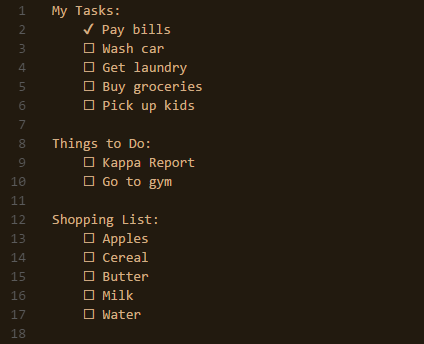
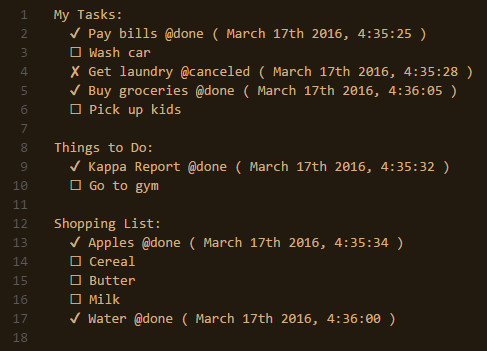
v0.5 add task above, timestamp, done/cancel message

diff --git a/src/extension.ts b/src/extension.ts
@@ -1,12 +1,12 @@
 'use strict';
 import * as vscode from 'vscode';
-import {EOL} from 'os';
+import * as moment from 'moment';
 
 export function activate(context: vscode.ExtensionContext) {
   let task = new Task();
   
   let addTask = vscode.commands.registerCommand('extension.addTask', () => {
-     task.add(true); 
+     task.add(true);
   });
   
   let addTaskAbove = vscode.commands.registerCommand('extension.addTaskAbove', () => {
@@ -34,39 +34,32 @@ export function activate(context: vscode.ExtensionContext) {
 }
 
 class Task {
-  
   private config = {
     baseMarker: '☐',
     cancelMarker: '✘',
     completeMarker: '✔',
     doneMessage: ' @done',
     cancelMessage: ' @canceled'
-  };  
+  };
   
   public add(stage: boolean): any {
     let editor: any = vscode.window.activeTextEditor;
     if (!editor) {
       return;
     }
-    
     let config: any = this.config;
-    
-    //get current position
+    // get current position
     let currentLine: number = editor.selection.active.line;
-    
-    //get info
+    // get info
     let info: any = this.getLineinfo(editor, currentLine, config.baseMarker);
-    
-    //insert line below or above
-    stage ? insertLineBelow() : insertLineAbove()
-    
-    //helper-functions
+    // insert line below or above
+    stage ? insertLineBelow() : insertLineAbove();
+    // helper-functions
     function insertLineBelow(): any {
       editor.edit( editBuilder => {
         editBuilder.insert(info.lineEnd, '\n\t' + info.marker + ' ');
-      })
+      });
     }
-    
     function insertLineAbove(): any {
       editor.edit( editBuilder => {
         editBuilder.insert(info.prevLine, '\n\t' + info.marker + ' ');
@@ -80,28 +73,21 @@ class Task {
     if (!editor) {
       return;
     }
-    
     let config: any = this.config;
     let replaceLine: any = this.replaceLine;
-    let appendMessage: any = this.appendMessage;
-    
-    //get current position
+    // get current position
     let currentLine: number = editor.selection.active.line;
-    
-    //get info
-    let info:any = this.getLineinfo(editor, currentLine, config.completeMarker);
-    
+    // get info
+    let info: any = this.getLineinfo(editor, currentLine, config.completeMarker);
     if (info.containsBase !== -1) {
-      //baseMarker => completeMarker
-      replaceLine(editor, info, config.baseMarker, info.marker, '');
-      appendMessage(editor, info, config.doneMessage);
+      // baseMarker => completeMarker
+      replaceLine(editor, info, config.baseMarker, info.marker, config.doneMessage, 'append');
     } else if (info.containsComplete !== -1) {
-      //completeMarker => baseMarker
-      replaceLine(editor, info, info.marker, config.baseMarker, config.doneMessage)
+      // completeMarker => baseMarker
+      replaceLine(editor, info, info.marker, config.baseMarker, config.doneMessage, '');
     } else if (info.containsCancel !== -1) {
-      //cancelMarker => completeMarker 
-      replaceLine(editor, info, config.cancelMarker, info.marker, config.cancelMessage);
-      appendMessage(editor, info, config.doneMessage);
+      // cancelMarker => completeMarker 
+      replaceLine(editor, info, config.cancelMarker, info.marker, config.cancelMessage, config.doneMessage);
     }
   }
   
@@ -110,28 +96,21 @@ class Task {
     if (!editor) {
       return;
     }
-    
     let config: any = this.config;
     let replaceLine: any = this.replaceLine;
-    let appendMessage: any = this.appendMessage;
-    
-    //get current position
+    // get current position
     let currentLine: number = editor.selection.active.line;
-    
-    //get info
+    // get info
     let info: any = this.getLineinfo(editor, currentLine, config.cancelMarker);
-    
     if (info.containsBase !== -1) {
-      //baseMarker => cancelMarker
-      replaceLine(editor, info, config.baseMarker, info.marker, '');
-      appendMessage(editor, info, config.cancelMessage);
+      // baseMarker => cancelMarker
+      replaceLine(editor, info, config.baseMarker, info.marker, config.cancelMessage, 'append');
     } else if (info.containsComplete !== -1) {
-      //completeMarker => cancelMarker
-      replaceLine(editor, info, config.completeMarker, info.marker, config.doneMessage);
-      appendMessage(editor, info, config.cancelMessage);
+      // completeMarker => cancelMarker
+      replaceLine(editor, info, config.completeMarker, info.marker, config.doneMessage, config.cancelMessage);
     } else if (info.containsCancel !== -1) {
-      //cancelMarker => baseMarker
-      replaceLine(editor, info, info.marker, config.baseMarker, config.cancelMessage);
+      // cancelMarker => baseMarker
+      replaceLine(editor, info, info.marker, config.baseMarker, config.cancelMessage, '');
     }
   }
   
@@ -140,19 +119,15 @@ class Task {
     if (!editor) {
       return;
     }
-    
     let config: any = this.config;
-    
-    //get current position
+    // get current position
     let currentLine: number = editor.selection.active.line;
-    
-    //get info
+    // get info
     let info: any = this.getLineinfo(editor, currentLine, config.baseMarker);
-    
     if (info.containsBase === -1 && info.containsComplete === -1 && info.containsCancel === -1) {
       editor.edit( editBuilder => {
         editBuilder.insert(info.firstNonWhitePos, info.marker + ' ');
-      })
+      });
     }
   }
   
@@ -167,9 +142,10 @@ class Task {
     if (lineNumber === 0) {
       prevLine = new vscode.Position(0, lineText.length);
     } else {
-      prevLine = new vscode.Position(lineNumber -1, lineText.length);
+      let prevLineText: string = editor.document.lineAt(lineNumber - 1).text;
+      prevLine = new vscode.Position(lineNumber - 1, prevLineText.length);
     }
-    let containsBase: number = lineText.indexOf(config.baseMarker) 
+    let containsBase: number = lineText.indexOf(config.baseMarker);
     let containsComplete: number = lineText.indexOf(config.completeMarker);
     let containsCancel: number = lineText.indexOf(config.cancelMarker);
     let result = {
@@ -187,23 +163,28 @@ class Task {
     return result;
   }
   
-  private replaceLine(editor: any, info: any, markerFrom: string, markerTo: string, messageFrom: string): any {
+  private replaceLine(editor: any, info: any, markerFrom: string, markerTo: string, messageFrom: string, messageTo: string): any {
     let newLine: string;
-    if (messageFrom !== '') {
-      newLine = info.lineText.replace(markerFrom, markerTo).replace(messageFrom, '');
+    if (messageTo === 'append') {
+      newLine = info.lineText.replace(markerFrom, markerTo) + messageFrom + ' ( ' + moment().format('MMMM Do YYYY, h:mm:ss') + ' )';
+    } else if (messageTo === '') {
+      newLine = info.lineText.replace(markerFrom, markerTo)
+      newLine = removeString(newLine, newLine.indexOf(messageFrom), newLine.length);
     } else {
-      newLine = info.lineText.replace(markerFrom, markerTo);
+      newLine = info.lineText.replace(markerFrom, markerTo)
+      newLine = removeString(newLine, newLine.indexOf(messageFrom), newLine.length);
+      newLine = newLine + messageTo + ' ( ' + moment().format('MMMM Do YYYY, h:mm:ss') + ' )';
     }
     editor.edit (editBuilder => {
       editBuilder.replace(info.lineRange, newLine);
-    })  
+    });
+    editor.selection = new vscode.Selection(info.lineEnd, info.lineEnd);
+    
+    function removeString(str, start, end) {
+      return str.substr(0, start) + str.substr(start + end);
+    }
   }
   
-  private appendMessage(editor: any, info: any, message: string): any {
-    editor.edit (editBuilder => {
-      editBuilder.insert(info.lineEnd, message);
-    })
-  }
   dispose(): any {}
 }
 
